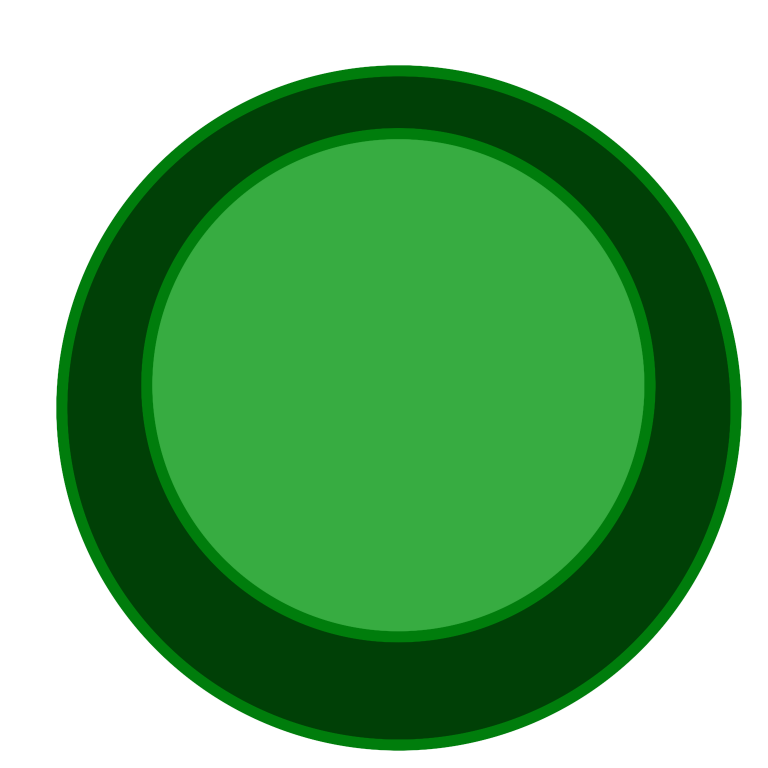
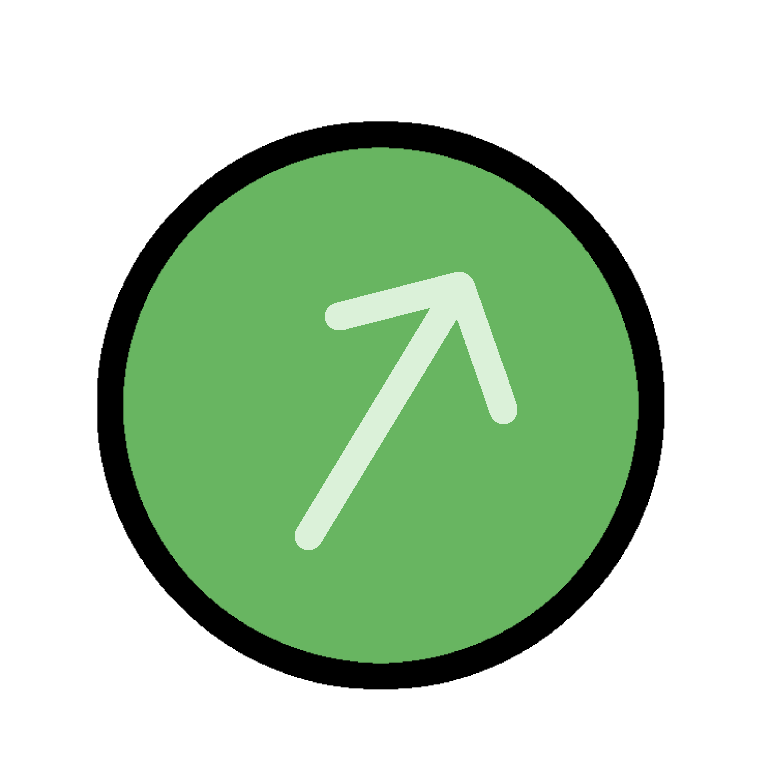
Fix arrow buttons work with camera movement

diff --git a/src/game/scenes/GameScene.ts b/src/game/scenes/GameScene.ts
@@ -91,34 +91,36 @@ export default class GameScene extends Phaser.Scene {
     const centerY = this.cameras.main.centerY;
     this.scene.launch("MenuScene");
     const infobutton = new InfoButton(this, 40, 40);
+
+    const greenButton = new ArrowButtons(
+      this, 60, centerY - 50, "greenbutton"
+    );
+    const redButton = new ArrowButtons(
+      this, 60, centerY + 50, "redbutton"
+    );
+
     
     // Make main camera ignore the button so it stays fixed
     cam.ignore(infobutton);
+    cam.ignore(greenButton);
+    cam.ignore(redButton);
 
     infobutton.on("infoButtonClicked", () => {
       this.scene.launch("TutorialScene");
     });
 
-
-    this.createOrganism(centerX, centerY - 200, "acacia");
-
-    const greenButton = new ArrowButtons(
-      this, 60, centerY - 50, "greenbutton"
-    );
-
-    const redButton = new ArrowButtons(
-      this, 60, centerY + 50, "redbutton"
-    );
-
     greenButton.on("arrowButtonClicked", () => {
       this.arrowColorValue = true;
       console.log(this.arrowColorValue);
     })
-
     redButton.on("arrowButtonClicked", () => {
       this.arrowColorValue = false;
       console.log(this.arrowColorValue);
     });
+
+    this.createOrganism(centerX, centerY - 200, "acacia");
+
+
 
     this.events.once("menuClosed", () => {
       this.time.delayedCall(3000, () => {
